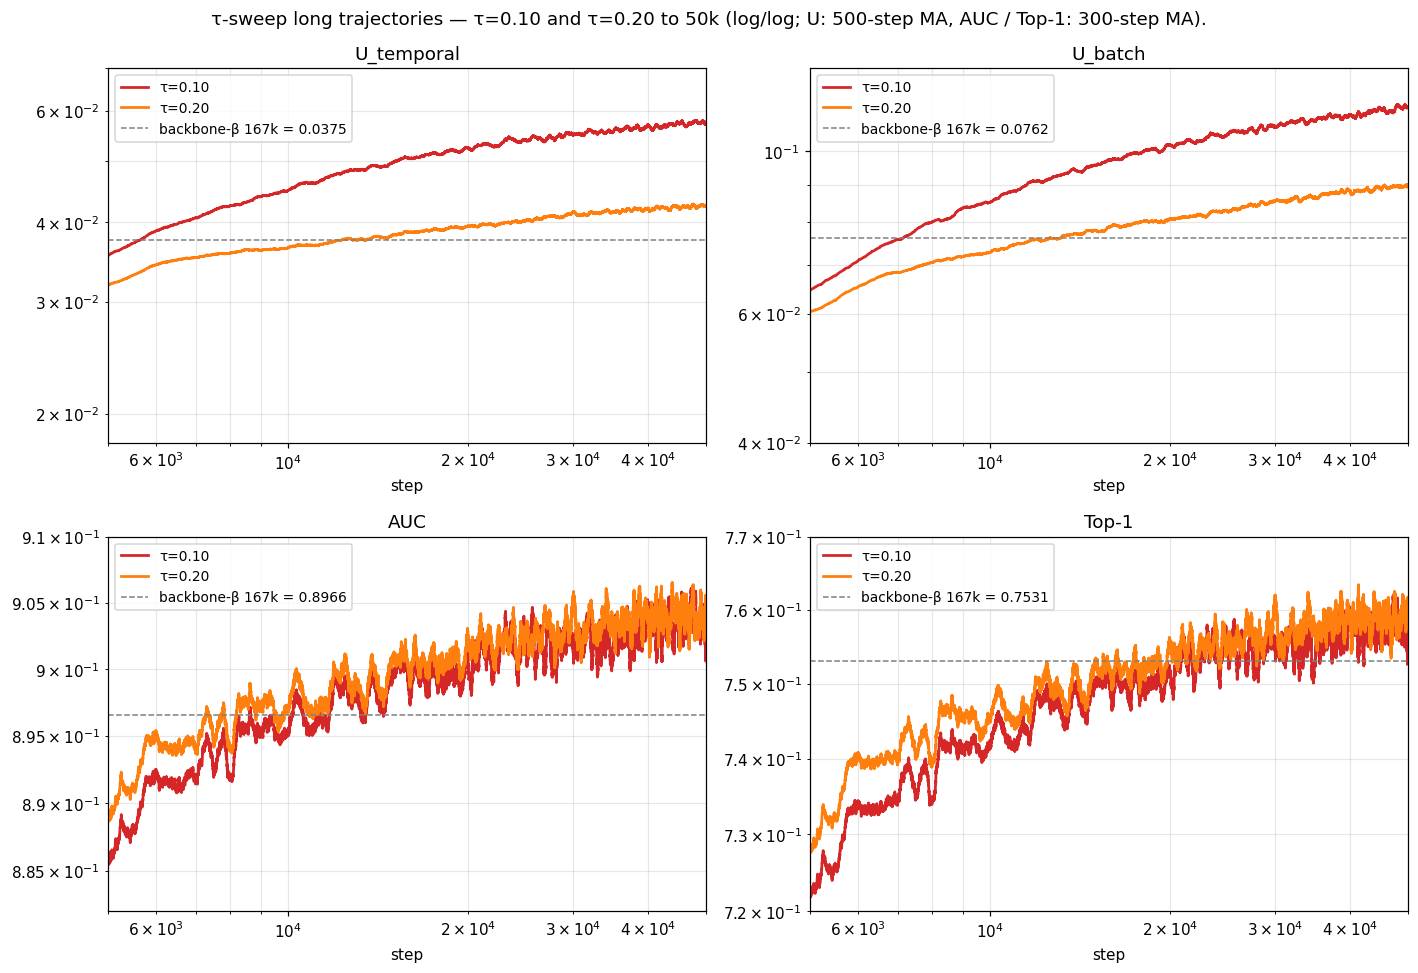
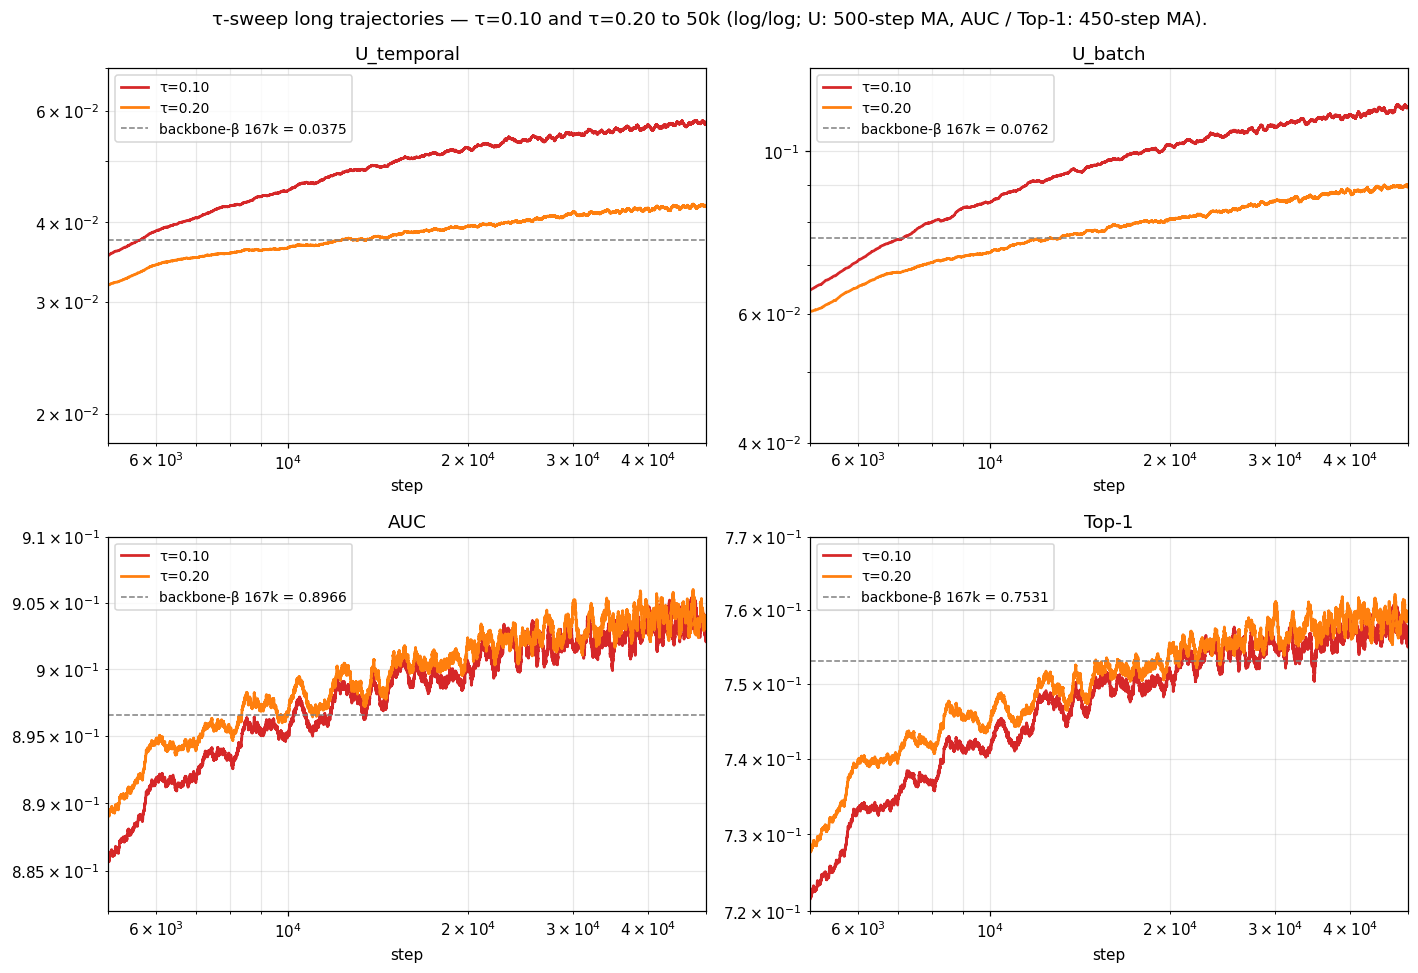
plot(long): bump AUC / Top-1 smoothing 300 → 450
User feedback: a bit more smoothing on AUC and Top-1.

«Agent Opus 4.7 (1M context) writing»

diff --git a/experiments/2026-05-08_exp_tau_sweep/scripts/plot_tau_sweep_long.py b/experiments/2026-05-08_exp_tau_sweep/scripts/plot_tau_sweep_long.py
@@ -133,8 +133,8 @@ def main() -> None:
     metrics = [
         ("u_temporal", "U_temporal", BETA["u_temporal"], 500, (0.018, 0.07)),
         ("u_batch",   "U_batch",     BETA["u_batch"],    500, (0.040, 0.13)),
-        ("auc",       "AUC",         BETA["auc"],        300, (0.882, 0.910)),
-        ("top1",      "Top-1",       BETA["top1"],       300, (0.72, 0.77)),
+        ("auc",       "AUC",         BETA["auc"],        450, (0.882, 0.910)),
+        ("top1",      "Top-1",       BETA["top1"],       450, (0.72, 0.77)),
     ]
 
     fig, axs = plt.subplots(2, 2, figsize=(13, 9))
@@ -162,7 +162,7 @@ def main() -> None:
         ax.legend(loc="best", fontsize=9)
     fig.suptitle(
         "τ-sweep long trajectories — τ=0.10 and τ=0.20 to 50k "
-        "(log/log; U: 500-step MA, AUC / Top-1: 300-step MA).",
+        "(log/log; U: 500-step MA, AUC / Top-1: 450-step MA).",
         fontsize=12)
     fig.tight_layout()
     fig.savefig(OUT, dpi=110, bbox_inches="tight")
